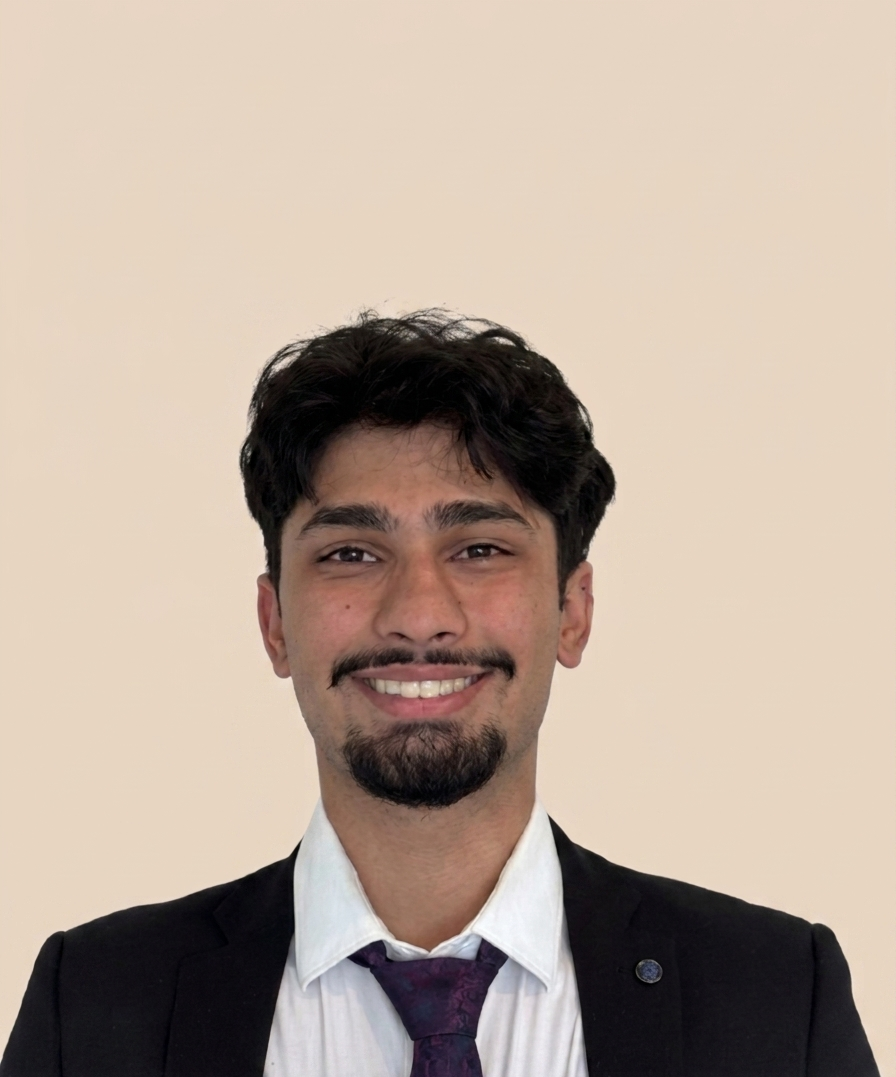
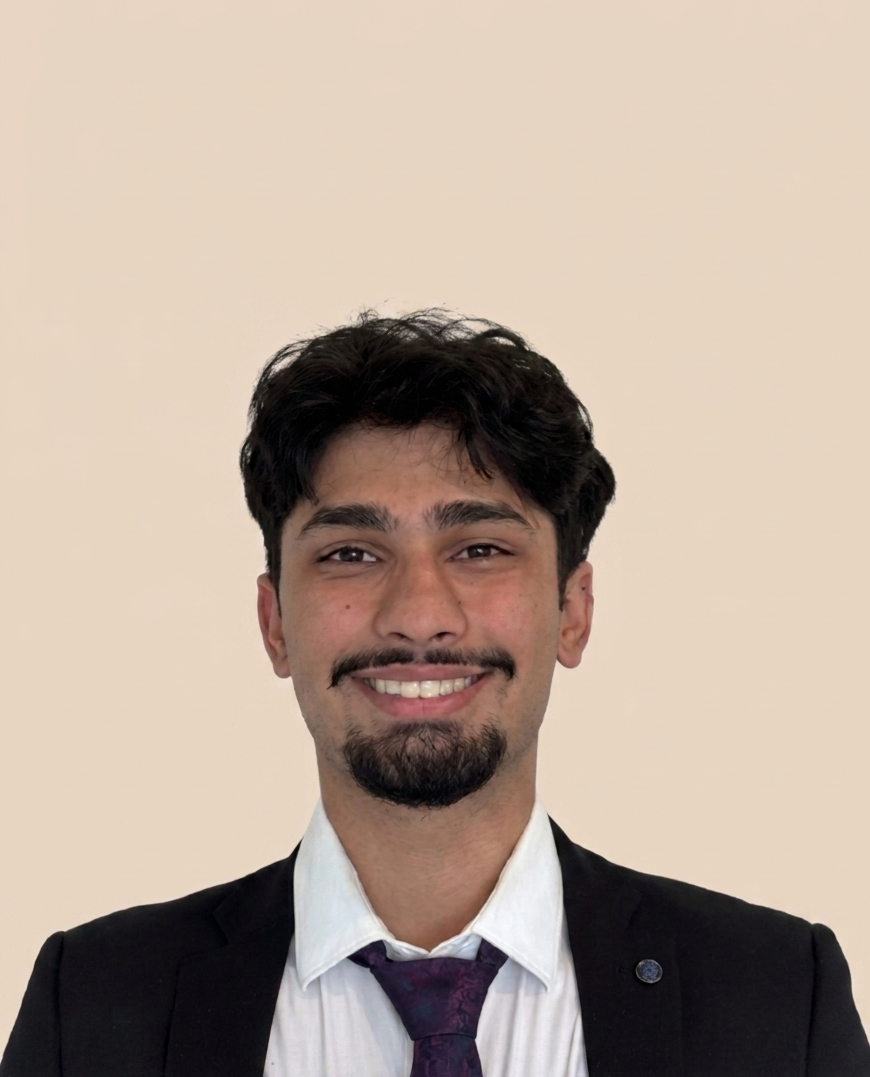
Lower reveal threshold; adjust photo position
Reduce the IntersectionObserver threshold from 0.5 to 0.3 in Home.jsx to trigger section reveal animations earlier. Add object-position: 0 110% to the about photo in AboutMe.css to correct its cropping/placement. Update the profile.png asset in public/images (binary image replaced). Files changed: Home.jsx, AboutMe.css, public/images/profile.png.

diff --git a/portfolio/src/components/Home.jsx b/portfolio/src/components/Home.jsx
@@ -19,7 +19,7 @@ function Home() {
           }
         });
       },
-      { threshold: 0.5 }
+      { threshold: 0.3 }
     );
 
     document.querySelectorAll('.section').forEach((el) => {

diff --git a/portfolio/src/components/Sections/AboutMe.css b/portfolio/src/components/Sections/AboutMe.css
@@ -134,6 +134,7 @@
     width: 100px;
     height: 100px;
     border-radius: 50%;
+    object-position: 0 110%;
   }
 
   .about-photo-placeholder {
